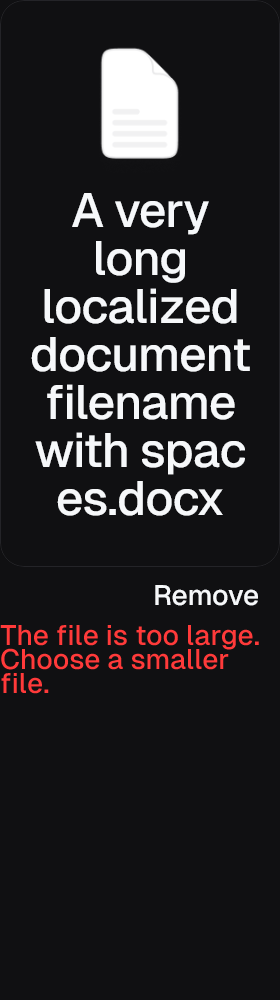
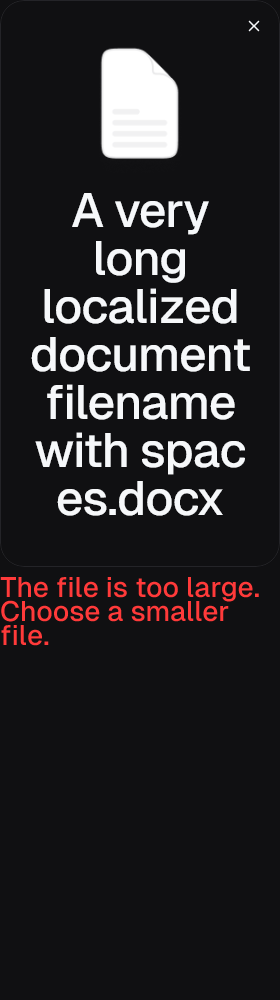
fix(file-upload): keep native selection and removal together

Changed region(s): [[0.0, 0.558, 0.9429, 0.713], [0.8857, 0.0, 0.9143, 0.031]]

diff --git a/native/compose/src/commonMain/kotlin/pics/lab/ui/LabFileUpload.kt b/native/compose/src/commonMain/kotlin/pics/lab/ui/LabFileUpload.kt
@@ -40,6 +40,8 @@ import kotlinx.coroutines.Dispatchers
 import kotlinx.coroutines.withContext
 import org.jetbrains.compose.resources.DrawableResource
 import org.jetbrains.compose.resources.painterResource
+import pics.lab.icons.Icon
+import pics.lab.icons.symbols.close
 import pics.lab.ui.resources.*
 
 public enum class LabFileUploadVariant { Input, Area }
@@ -239,7 +241,8 @@ internal fun LabFileUploadBody(
     }
     Column(modifier, verticalArrangement = Arrangement.spacedBy(LabComponents.FileUploadFieldGap.dp)) {
         if (!labelHidden) LabText(label, style = caption)
-        val panel = Modifier.fillMaxWidth().clip(RoundedCornerShape(radius.dp)).background(fill)
+        val panel = Modifier.fillMaxWidth().semantics { isTraversalGroup = true }
+            .clip(RoundedCornerShape(radius.dp)).background(fill)
             .drawWithContent {
                 drawContent()
                 val width = (if (dragging && interactive || focused) LabComponents.FileUploadDragStrokeWidth else LabComponents.FileUploadStrokeWidth).dp.toPx()
@@ -256,46 +259,69 @@ internal fun LabFileUploadBody(
                 Column(Modifier.fillMaxWidth().padding(horizontal = paddingX, vertical = LabComponents.FileUploadAreaPaddingY.dp)
                     .align(Alignment.Center), horizontalAlignment = Alignment.CenterHorizontally,
                     verticalArrangement = Arrangement.spacedBy(LabComponents.FileUploadAreaGap.dp)) {
-                    if (enabled) LabFileUploadArtwork(dragging && interactive, names.isNotEmpty(), hovered && interactive)
-                    val title = if (dragging && interactive) strings.dragging else names.firstOrNull()
-                        ?: if (dropSupported) strings.drop else strings.chooseFiles
-                    LabText(title, Modifier.fillMaxWidth().then(if (names.isNotEmpty()) Modifier.clickable(interactions, null,
-                        enabled = interactive, onClickLabel = strings.browse, role = Role.Button, onClick = onBrowse)
-                        .semantics { contentDescription = "$label: $title" } else Modifier),
-                        style = bodyStyle.withTypography(fontSize = LabComponents.FileUploadAreaTitleFontSize.sp,
-                            lineHeight = LabComponents.FileUploadAreaTitleLineHeight.sp,
-                            fontWeight = FontWeight(LabComponents.FileUploadAreaTitleFontWeight.toInt()),
-                            letterSpacing = LabComponents.FileUploadAreaTitleLetterSpacing.sp).copy(textAlign = TextAlign.Center))
+                    if (enabled || names.isNotEmpty()) LabFileUploadArtwork(dragging && interactive, names.isNotEmpty(), hovered && interactive)
+                    if (names.size <= 1 || dragging && interactive) {
+                        val title = if (dragging && interactive) strings.dragging else names.firstOrNull()
+                            ?: if (dropSupported) strings.drop else strings.chooseFiles
+                        LabText(title, Modifier.fillMaxWidth().then(if (names.isNotEmpty()) Modifier.clickable(interactions, null,
+                            enabled = interactive, onClickLabel = strings.browse, role = Role.Button, onClick = onBrowse)
+                            .semantics { contentDescription = "$label: $title" } else Modifier),
+                            style = bodyStyle.withTypography(fontSize = LabComponents.FileUploadAreaTitleFontSize.sp,
+                                lineHeight = LabComponents.FileUploadAreaTitleLineHeight.sp,
+                                fontWeight = FontWeight(LabComponents.FileUploadAreaTitleFontWeight.toInt()),
+                                letterSpacing = LabComponents.FileUploadAreaTitleLetterSpacing.sp).copy(textAlign = TextAlign.Center))
+                    }
+                    if (names.size > 1 && !dragging) {
+                        Column(Modifier.fillMaxWidth(), verticalArrangement = Arrangement.spacedBy(LabComponents.FileUploadGap.dp)) {
+                            names.forEachIndexed { index, name ->
+                                Row(Modifier.fillMaxWidth(), verticalAlignment = Alignment.CenterVertically,
+                                    horizontalArrangement = Arrangement.spacedBy(LabComponents.FileUploadGap.dp)) {
+                                    LabText(name, Modifier.weight(1f), style = bodyStyle)
+                                    LabUploadRemove(name, index, strings, interactive, onRemove)
+                                }
+                            }
+                        }
+                        LabButton(strings.browse, onBrowse,
+                            Modifier.semantics { contentDescription = "$label: ${strings.browse}" },
+                            enabled = interactive, size = LabControlSize.Large)
+                    }
                     if (names.isEmpty() && !dragging) {
                         LabText(strings.or, style = caption)
                         LabButton(strings.browse, onBrowse, Modifier.semantics { contentDescription = "$label: ${strings.browse}" },
                             enabled = interactive, size = LabControlSize.Large)
                     }
                 }
-            }
-        } else {
-            Row(panel.defaultMinSize(minHeight = metrics.height.dp).clickable(interactions, null, interactive,
-                onClickLabel = strings.browse, role = Role.Button, onClick = onBrowse)
-                .semantics { contentDescription = "$label: ${names.joinToString().ifEmpty { strings.empty }}" }
-                .padding(horizontal = metrics.paddingX.dp, vertical = metrics.paddingY.dp),
-                horizontalArrangement = Arrangement.spacedBy(LabComponents.FileUploadGap.dp, Alignment.CenterHorizontally),
-                verticalAlignment = Alignment.CenterVertically) {
-                if (names.isNotEmpty()) {
-                    Image(painterResource(Res.drawable.lab_file_upload_file), null, Modifier.size(metrics.icon.dp), colorFilter = ColorFilter.tint(secondary))
-                    LabText(names.first(), Modifier.weight(1f, fill = false), style = bodyStyle)
-                } else {
-                    LabText(strings.chooseFile, style = bodyStyle)
-                    LabText(strings.empty, Modifier.weight(1f, fill = false), style = bodyStyle.copy(color = secondary))
+                if (names.size == 1 && !dragging) {
+                    LabUploadRemove(names.single(), 0, strings, interactive, onRemove,
+                        Modifier.align(Alignment.TopEnd).padding(LabComponents.FileUploadGap.dp))
                 }
             }
-        }
-        names.forEachIndexed { index, name ->
-            Row(Modifier.fillMaxWidth(), horizontalArrangement = Arrangement.spacedBy(LabComponents.FileUploadGap.dp), verticalAlignment = Alignment.CenterVertically) {
-                if (names.size > 1) LabText(name, Modifier.weight(1f), style = bodyStyle)
-                else Spacer(Modifier.weight(1f))
-                LabButton(strings.remove, { if (interactive) onRemove(index) },
-                    Modifier.semantics { contentDescription = "${strings.remove} $name" },
-                    intent = LabIntent.Neutral, kind = LabButtonKind.Ghost, size = LabControlSize.Small, enabled = interactive)
+        } else {
+            Column(panel) {
+                for (index in 0 until maxOf(names.size, 1)) {
+                    val name = names.getOrNull(index)
+                    Row(Modifier.fillMaxWidth(), verticalAlignment = Alignment.CenterVertically) {
+                        Row(Modifier.weight(1f).defaultMinSize(minHeight = metrics.height.dp)
+                            .clickable(interactions, null, interactive, onClickLabel = strings.browse,
+                                role = Role.Button, onClick = onBrowse)
+                            .semantics { contentDescription = "$label: ${name ?: strings.empty}" }
+                            .padding(horizontal = metrics.paddingX.dp, vertical = metrics.paddingY.dp),
+                            horizontalArrangement = Arrangement.spacedBy(LabComponents.FileUploadGap.dp,
+                                if (names.size > 1) Alignment.Start else Alignment.CenterHorizontally),
+                            verticalAlignment = Alignment.CenterVertically) {
+                            if (name != null) {
+                                Image(painterResource(Res.drawable.lab_file_upload_file), null,
+                                    Modifier.size(metrics.icon.dp), colorFilter = ColorFilter.tint(secondary))
+                                LabText(name, Modifier.weight(1f, fill = false), style = bodyStyle)
+                            } else {
+                                LabText(strings.chooseFile, style = bodyStyle)
+                                LabText(strings.empty, Modifier.weight(1f, fill = false), style = bodyStyle.copy(color = secondary))
+                            }
+                        }
+                        if (name != null) LabUploadRemove(name, index, strings, interactive, onRemove,
+                            Modifier.padding(end = LabComponents.FileUploadGap.dp))
+                    }
+                }
             }
         }
         val message = error ?: helper
@@ -303,6 +329,14 @@ internal fun LabFileUploadBody(
             if (error != null) { this.error(error); liveRegion = LiveRegionMode.Polite }
         }, style = caption.copy(color = colors[if (error != null) LabComponents.FileUploadRolesDanger else LabComponents.FileUploadRolesSecondary]))
     }
+}
+
+@Composable
+private fun LabUploadRemove(name: String, index: Int, strings: LabFileUploadStrings,
+    enabled: Boolean, onRemove: (Int) -> Unit, modifier: Modifier = Modifier) {
+    LabButton("${strings.remove} $name", { if (enabled) onRemove(index) }, modifier,
+        intent = LabIntent.Neutral, kind = LabButtonKind.Ghost, size = LabControlSize.Small,
+        enabled = enabled, iconOnly = true, icon = { Icon(close, tint = color, size = size) })
 }
 
 @Composable

diff --git a/native/compose/src/desktopTest/kotlin/pics/lab/ui/FileUploadRenderTest.kt b/native/compose/src/desktopTest/kotlin/pics/lab/ui/FileUploadRenderTest.kt
@@ -93,6 +93,48 @@ class FileUploadRenderTest {
         } finally { f.scene.close() }
     }
 
+    @Test fun selectedFilesAndRemovalStayTogetherWithoutRepeatingTheFirstFilename() {
+        val output = File("build/file-upload-evidence").apply { mkdirs() }
+        for (variant in LabFileUploadVariant.entries) {
+            var names by mutableStateOf(listOf("First document.txt", "Second document.txt"))
+            var removed = -1
+            val f = fixture(width = 440, height = 620, appearance = LabAppearance.Dark) {
+                LabFileUploadBody(names, "Files", variant = variant, onBrowse = {},
+                    onRemove = { index -> removed = index; names = names.filterIndexed { i, _ -> i != index } })
+            }
+            try {
+                File(output, "${variant.name.lowercase()}-multiple-dark.png").writeBytes(f.settle())
+                val all = nodes(f.scene)
+                val texts = all.flatMap { it.config.getOrNull(SemanticsProperties.Text).orEmpty() }.map { it.text }
+                for (name in names) assertEquals(1, texts.count { it == name }, "$variant must render $name once")
+                val nameBounds = names.map { name -> all.single {
+                    it.config.getOrNull(SemanticsProperties.Text)?.any { text -> text.text == name } == true
+                }.boundsInRoot }
+                assertEquals(nameBounds[0].left, nameBounds[1].left, "$variant keeps file names on one reading edge")
+                val panel = all.filter { node ->
+                    val descriptions = walk(node).flatMap { it.config.getOrNull(SemanticsProperties.ContentDescription).orEmpty() }
+                    names.all { "Remove $it" in descriptions }
+                }.minBy { walk(it).size }
+                assertEquals(true, panel.config.getOrNull(SemanticsProperties.IsTraversalGroup),
+                    "$variant groups the selected files and their actions")
+                val groupedActions = walk(panel).mapNotNull { it.config.getOrNull(SemanticsProperties.ContentDescription) }.flatten()
+                for (name in names) {
+                    assertTrue("Remove $name" in groupedActions, "$variant removal belongs to the selected-file group")
+                    val bounds = action(f.scene, "Remove $name").boundsInRoot
+                    assertTrue(bounds.left >= panel.boundsInRoot.left && bounds.right <= panel.boundsInRoot.right)
+                    assertTrue(bounds.top >= panel.boundsInRoot.top && bounds.bottom <= panel.boundsInRoot.bottom)
+                }
+                action(f.scene, "Remove Second document.txt").config[SemanticsActions.OnClick].action!!.invoke()
+                f.settle()
+                assertEquals(1, removed)
+                assertEquals(listOf("First document.txt"), names)
+                action(f.scene, "Remove First document.txt").config[SemanticsActions.OnClick].action!!.invoke()
+                f.settle()
+                assertTrue(names.isEmpty())
+            } finally { f.scene.close() }
+        }
+    }
+
     @Test fun authoredAreaRendersAllStatesAndNarrowTextGrowsWithoutOverflow() {
         val output = File("build/file-upload-evidence").apply { mkdirs() }
         for (appearance in listOf(LabAppearance.Light, LabAppearance.Dark))

diff --git a/native/compose/evidence/file-upload-20261123/README.md b/native/compose/evidence/file-upload-20261123/README.md
@@ -4,8 +4,12 @@
 `java.awt.headless=true`. Geist, LabText, LabButton, LabComponents и реальные Compose
 resources используются без подмены. Окна и системные диалоги не открывались.
 
-Десять целевых тестов прошли: четыре проверки выбора/метаданных, две проверки
-асинхронного приёма и четыре проверки семантики/рендера.
+Первоначальный набор из десяти тестов прошёл: четыре проверки выбора/метаданных,
+две проверки асинхронного приёма и четыре проверки семантики/рендера. После правки
+композиции повторно прошли все пять проверок `FileUploadRenderTest`, включая новую
+проверку списка: каждое имя показано один раз, имена выровнены, удаление принадлежит
+той же группе и находится внутри её границ, оба файла действительно удаляются.
+Снимки `input-multiple-dark` и `area-multiple-dark` показывают этот результат.
 `secondDropWhileMetadataIsSuspendedRetainsBothBatchesAndPendingReferences` сохраняет
 обе пачки и ссылки разрешений при повторном drop; `changingConstraintsWhileMetadataIsSuspendedCannotPublishTheOldPolicyResult`
 не допускает публикацию результата по старому лимиту. Оба теста приостанавливают
